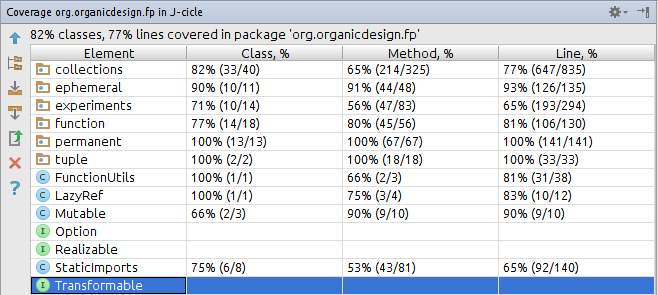
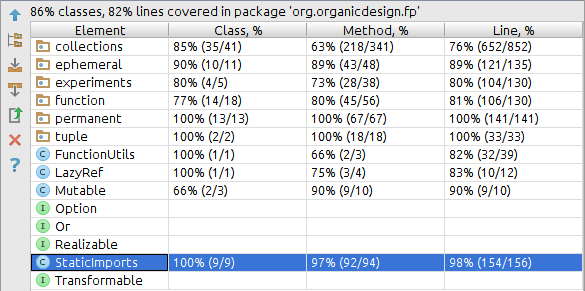
Brought total test coverage to 82% by line, Static Imports to 98% which is probably as high as StaticImports is going to get.

diff --git a/src/test/java/org/organicdesign/fp/StaticImportsTest.java b/src/test/java/org/organicdesign/fp/StaticImportsTest.java
@@ -14,6 +14,7 @@
 
 package org.organicdesign.fp;
 
+import java.util.ArrayDeque;
 import java.util.ArrayList;
 import java.util.Arrays;
 import java.util.Collections;
@@ -23,12 +24,16 @@ import java.util.LinkedList;
 import java.util.List;
 import java.util.Map;
 import java.util.Set;
+import java.util.SortedMap;
+import java.util.TreeMap;
 import java.util.TreeSet;
 
 import org.junit.Test;
+import org.organicdesign.fp.collections.UnCollection;
 import org.organicdesign.fp.collections.UnList;
 import org.organicdesign.fp.collections.UnListIterator;
 import org.organicdesign.fp.collections.UnMap;
+import org.organicdesign.fp.collections.UnMapSorted;
 import org.organicdesign.fp.collections.UnSet;
 import org.organicdesign.fp.collections.UnSetSorted;
 import org.organicdesign.fp.function.Function2;
@@ -333,6 +338,11 @@ public class StaticImportsTest {
         assertEquals(c, b);
         assertEquals(b, c);
         assertEquals(a.hashCode(), c.hashCode());
+
+        assertEquals(UnSet.empty(), unSet());
+
+        assertEquals(UnSet.empty(), unSetSkipNull(null, null));
+        assertEquals(UnSet.empty(), unSetSkipNull());
     }
 
     @Test public void testUnList3() {
@@ -344,16 +354,14 @@ public class StaticImportsTest {
         b.add(2);
         b.add(3);
 
-        assertEquals(a, b);
-        assertEquals(b, a);
-        assertEquals(a.hashCode(), b.hashCode());
-
         UnList<Integer> c = unListSkipNull(null, 1, null, 2, null, 3);
-        assertEquals(c, a);
-        assertEquals(a, c);
-        assertEquals(c, b);
-        assertEquals(b, c);
-        assertEquals(a.hashCode(), c.hashCode());
+        equalsHelper(a, b, c, unList(1, 2));
+
+        assertEquals(UnList.empty(), unList());
+
+        assertEquals(UnList.empty(), unListSkipNull(null, null));
+        assertEquals(UnList.empty(), unListSkipNull());
+
     }
 
     @Test public void unListIterator() {
@@ -462,20 +470,187 @@ public class StaticImportsTest {
         );
     }
 
-//    @Test public void unMapTest() {
-//        UnSet<Integer> s = un(new HashSet<>(Arrays.asList(5, 4, 3)));
-//
-//        assertTrue(s.contains(3));
-//        assertFalse(s.contains(-1));
-//        assertFalse(s.isEmpty());
-//        assertTrue(un(Collections.emptySet()).isEmpty());
-//
-//        equalsHelper(s,
-//                     un(new HashSet<>(Arrays.asList(3, 4, 5))),
-//                     new HashSet<>(Arrays.asList(4, 3, 5)),
-//                     un(new HashSet<>(Arrays.asList(4, 5, 6)))
-//        );
-//    }
+    @Test public void unMapTest() {
+        final UnMap<Integer,String> ts;
+        Map<Integer,String> sm = new TreeMap<>();
+        sm.put(5, "five");
+        sm.put(4, "four");
+        sm.put(3, "three");
+        ts = un(sm);
+
+        assertEquals(3, ts.size());
+        assertFalse(ts.isEmpty());
+
+        assertFalse(ts.containsKey(2));
+        assertTrue(ts.containsKey(3));
+        assertTrue(ts.containsKey(4));
+        assertTrue(ts.containsKey(5));
+        assertFalse(ts.containsKey(6));
+
+        assertFalse(ts.containsValue("two"));
+        assertTrue(ts.containsValue("three"));
+        assertTrue(ts.containsValue("four"));
+        assertTrue(ts.containsValue("five"));
+        assertFalse(ts.containsValue("six"));
+
+        assertFalse(ts.isEmpty());
+
+        final UnMap<Integer,String> m2;
+        {
+            Map<Integer,String> sm2 = new TreeMap<>();
+            sm2.put(3, "three");
+            sm2.put(4, "four");
+            sm2.put(5, "five");
+            m2 = un(sm2);
+        }
+
+        final UnMap<Integer,String> m3;
+        {
+            Map<Integer,String> sm3 = new TreeMap<>();
+            sm3.put(4, "four");
+            sm3.put(5, "five");
+            sm3.put(6, "six");
+            m3 = un(sm3);
+        }
+
+        equalsHelper(ts, m2, sm, m3);
+
+        assertEquals(3, ts.entrySet().size());
+        assertFalse(ts.entrySet().isEmpty());
+
+        assertEquals(3, ts.keySet().size());
+        assertFalse(ts.keySet().isEmpty());
+
+        assertEquals(3, ts.values().size());
+        assertFalse(ts.values().isEmpty());
+
+        equalsHelper(ts.entrySet(), m2.entrySet(), sm.entrySet(), m3.entrySet());
+        equalsHelper(ts.keySet(), m2.keySet(), sm.keySet(), m3.keySet());
+
+        assertEquals(m3, m3);
+
+        // Wow.  TreeMap.values() returns something that doesn't implement equals.
+//        assertEquals(m3.values(), m3.values());
+        assertEquals(new ArrayList<>(m3.values()), new ArrayList<>(m3.values()));
+
+        equalsHelper(new ArrayList<>(ts.values()), new ArrayList<>(m2.values()),
+                     new ArrayList<>(sm.values()), new ArrayList<>(m3.values()));
+    }
+
+    @Test public void unMapSorted() {
+        final UnMapSorted<Integer,String> ts;
+        SortedMap<Integer,String> sm = new TreeMap<>();
+        sm.put(5, "five");
+        sm.put(4, "four");
+        sm.put(3, "three");
+        ts = un(sm);
+
+        assertEquals(3, ts.size());
+        assertFalse(ts.isEmpty());
+
+        assertNull(ts.comparator());
+        // headMap is exclusive.
+        assertTrue(ts.headMap(4).containsKey(3));
+        assertFalse(ts.headMap(4).containsKey(4));
+        assertFalse(ts.headMap(4).containsKey(5));
+
+        assertTrue(ts.headMap(4).containsValue("three"));
+        assertFalse(ts.headMap(4).containsValue("four"));
+        assertFalse(ts.headMap(4).containsValue("five"));
+
+        // tailMap is inclusive.
+        assertTrue(ts.tailMap(4).containsKey(5));
+        assertTrue(ts.tailMap(4).containsKey(4));
+        assertFalse(ts.tailMap(4).containsKey(3));
+
+        assertTrue(ts.tailMap(4).containsValue("five"));
+        assertTrue(ts.tailMap(4).containsValue("four"));
+        assertFalse(ts.tailMap(4).containsValue("three"));
+
+        assertEquals(Integer.valueOf(3), ts.firstKey());
+        assertEquals(Integer.valueOf(5), ts.lastKey());
+
+        assertFalse(ts.containsKey(2));
+        assertTrue(ts.containsKey(3));
+        assertTrue(ts.containsKey(4));
+        assertTrue(ts.containsKey(5));
+        assertFalse(ts.containsKey(6));
+
+        assertFalse(ts.containsValue("two"));
+        assertTrue(ts.containsValue("three"));
+        assertTrue(ts.containsValue("four"));
+        assertTrue(ts.containsValue("five"));
+        assertFalse(ts.containsValue("six"));
+
+        // low endpoint (inclusive) to high endpoint (exclusive)
+        assertFalse(ts.subMap(4, 5).containsKey(5));
+        assertTrue(ts.subMap(4, 5).containsKey(4));
+        assertFalse(ts.subMap(4, 5).containsKey(3));
+
+        assertFalse(ts.isEmpty());
+
+        final UnMapSorted<Integer,String> m2;
+        {
+            SortedMap<Integer,String> sm2 = new TreeMap<>();
+            sm2.put(3, "three");
+            sm2.put(4, "four");
+            sm2.put(5, "five");
+            m2 = un(sm2);
+        }
+
+        final UnMapSorted<Integer,String> m3;
+        {
+            SortedMap<Integer,String> sm3 = new TreeMap<>();
+            sm3.put(4, "four");
+            sm3.put(5, "five");
+            sm3.put(6, "six");
+            m3 = un(sm3);
+        }
+
+        equalsHelper(ts, m2, sm, m3);
+
+        assertEquals(3, ts.entrySet().size());
+        assertFalse(ts.entrySet().isEmpty());
+
+        assertEquals(3, ts.keySet().size());
+        assertFalse(ts.keySet().isEmpty());
+
+        assertEquals(3, ts.values().size());
+        assertFalse(ts.values().isEmpty());
+
+        equalsHelper(ts.entrySet(), m2.entrySet(), sm.entrySet(), m3.entrySet());
+        equalsHelper(ts.keySet(), m2.keySet(), sm.keySet(), m3.keySet());
+
+        assertEquals(m3, m3);
+
+        // Wow.  TreeMap.values() returns something that doesn't implement equals.
+//        assertEquals(m3.values(), m3.values());
+        assertEquals(new ArrayList<>(m3.values()), new ArrayList<>(m3.values()));
+
+        equalsHelper(new ArrayList<>(ts.values()), new ArrayList<>(m2.values()),
+                     new ArrayList<>(sm.values()), new ArrayList<>(m3.values()));
+    }
+
+    @Test public void unCollection() {
+        ArrayDeque<Integer> ad = new ArrayDeque<>(Arrays.asList(1, 2, 3));
+        UnCollection<Integer> a = un(new ArrayDeque<>(Arrays.asList(1, 2, 3)));
+        assertEquals(3, a.size());
+        assertTrue(a.contains(2));
+        assertFalse(a.isEmpty());
+
+        assertEquals(3, a.size());
+        assertTrue(a.contains(2));
+        assertFalse(a.isEmpty());
+
+//        UnCollection<Integer> b = un(new ArrayDeque<>(Arrays.asList(1, 2, 3)));
+//        assertEquals(a.hashCode(), b.hashCode());
+//        assertEquals(a, b);
+//        assertTrue(a.equals(b));
+//        assertTrue(b.equals(a));
+
+        equalsHelper(new ArrayList<>(a), new ArrayList<>(ad), Arrays.asList(1, 2, 3),
+                     Arrays.asList(3, 2, 1));
+    }
 
 
 //    @Test public void testLazyHashcoder() {

diff --git a/src/main/java/org/organicdesign/fp/experiments/Equator.java b/src/main/java/org/organicdesign/fp/experiments/Equator.java
@@ -40,23 +40,23 @@ public interface Equator<T> {
 
         @Override default boolean equalTo(T o1, T o2) { return compare(o1, o2) == 0; }
 
-        @SuppressWarnings("unchecked")
-        ComparisonContext<Comparable> DEFAULT_COMPARISON_CONTEXT = new ComparisonContext<Comparable>() {
-            @Override public int hash(Comparable o) { return (o == null) ? 0 : o.hashCode(); }
-            @SuppressWarnings("ConstantConditions")
-            @Override public int compare(Comparable o1, Comparable o2) {
-                if (o1 == null) {
-                    if (o2 == null) { return 0; }
-                    return o2.compareTo(o1);
-                }
-                return o1.compareTo(o2);
-            }
-        };
-    
-        @SuppressWarnings("unchecked")
-        static <T extends Comparable<T>> ComparisonContext<T> defaultComparisonContext() {
-            return (ComparisonContext<T>) DEFAULT_COMPARISON_CONTEXT;
-        }
+        // TODO: Make the types work out here:
+//        ComparisonContext<Comparable<Object>> DEFAULT_COMPARISON_CONTEXT = new ComparisonContext<Comparable<Object>>() {
+//            @Override public int hash(Comparable<Object> o) { return (o == null) ? 0 : o.hashCode(); }
+//            @SuppressWarnings("ConstantConditions")
+//            @Override public int compare(Comparable<Object> o1, Comparable<Object> o2) {
+//                if (o1 == null) {
+//                    if (o2 == null) { return 0; }
+//                    return o2.compareTo(o1);
+//                }
+//                return o1.compareTo(o2);
+//            }
+//        };
+//
+//        @SuppressWarnings("unchecked")
+//        static <T extends Comparable<T>> ComparisonContext<T> defaultComparisonContext() {
+//            return (ComparisonContext<T>) DEFAULT_COMPARISON_CONTEXT;
+//        }
     }
 
     // =================================================== Instance ===================================================

diff --git a/src/test/java/org/organicdesign/fp/collections/PersistentVectorTest.java b/src/test/java/org/organicdesign/fp/collections/PersistentVectorTest.java
@@ -23,6 +23,7 @@ import java.util.List;
 import java.util.ListIterator;
 import java.util.Map;
 
+import org.junit.Ignore;
 import org.junit.Test;
 import org.junit.runner.RunWith;
 import org.junit.runners.JUnit4;
@@ -204,7 +205,7 @@ public class PersistentVectorTest {
 
     // Time ImVectorImplementation vs. java.util.ArrayList to prove that performance does not degrade
     // if changes are made.
-//    @Ignore
+    @Ignore
     @Test public void speedTest() throws NoSuchAlgorithmException, InterruptedException {
         final int maxItems = 1000000;
 
